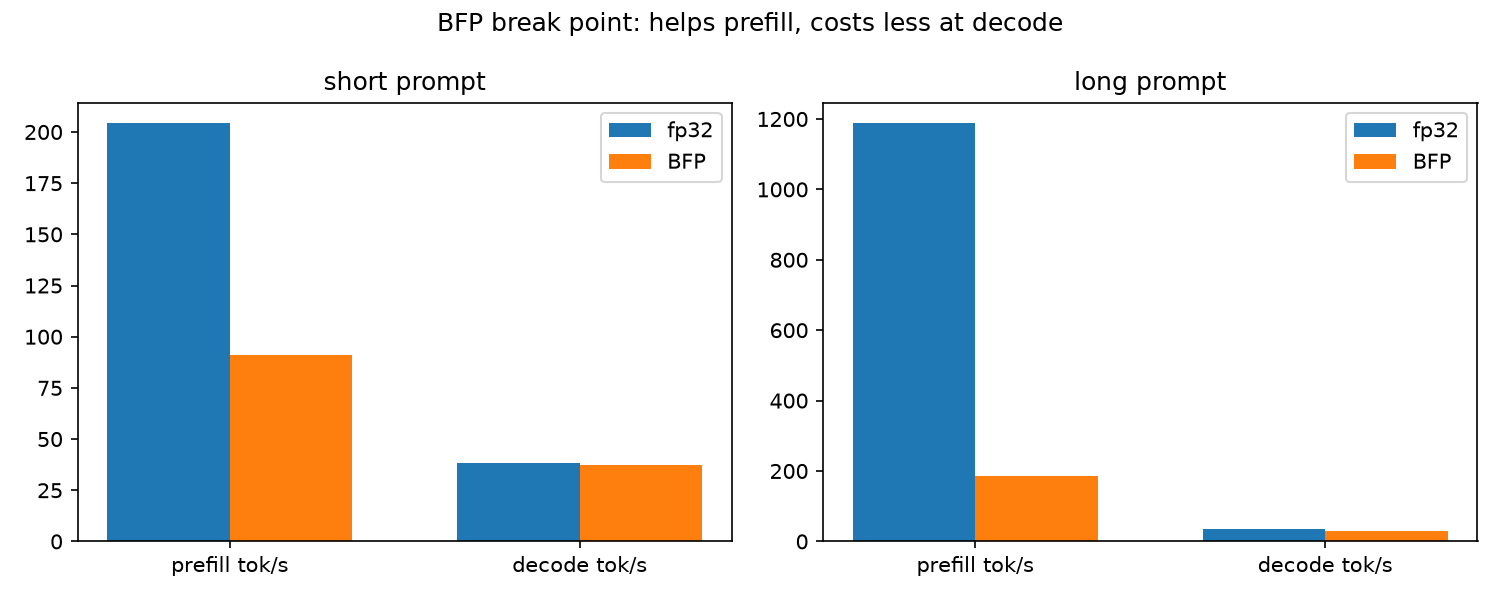
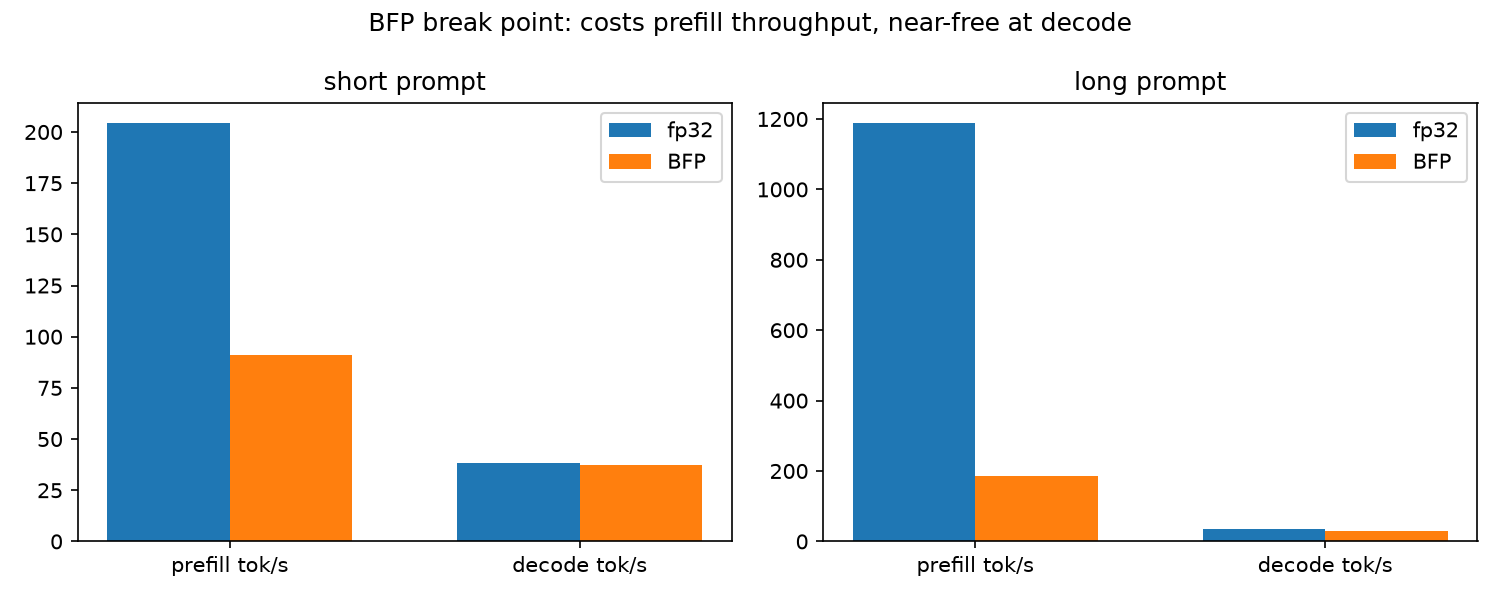
fix: address final-review findings — thread pinning, replay cache hits, chart title, README refresh
- Pin numba to DEFAULT_CONFIG.cpu_threads in stress_test.py and
  capture_replay_fixture.py, matching dashboard/app.py and
  run_bfp_benchmark.py. Both previously timed BFP under an unpinned
  12-thread numba while torch ran at 8.
- capture_replay_fixture.py: warm the cache with a discarded first
  generate() against the same PrefixKVCache before capturing, so the
  cache-on combos show real hits instead of an inevitable 0%. Add a
  top-level provenance() block, matching every other benchmarks/*.json.
- Re-ran both scripts: stress_test_results.json still 26 rows;
  replay.json still 12 entries, now with provenance and nonzero
  cache_detail on every cache-on entry.
- export_slide_charts.py: the BFP break-point chart title claimed BFP
  helps prefill. The data says the opposite; corrected and regenerated.
- README: refresh both 'Latest recorded numbers' blocks, the
  prefill/decode table, and the combined-pipeline numbers against the
  committed JSON; correct decode retention 83-85% -> 84-97% and prefill
  16-44% -> 16-45%; re-derive the stress-test ranges from the fresh
  JSON; bump the Limitations header to include Phase 5; note that the
  dashboard still does one live model load on first page render before
  the replay toggle can be flipped.

Changed region(s): [[0.2453, 0.0, 0.7667, 0.06]]

diff --git a/scripts/capture_replay_fixture.py b/scripts/capture_replay_fixture.py
@@ -3,10 +3,12 @@ import json
 import time
 from pathlib import Path
 
+import numba
 import torch
 
 from cachequant.bench.config import DEFAULT_CONFIG
 from cachequant.bench.harness import compute_bench_result
+from cachequant.bench.provenance import provenance
 from cachequant.dashboard.app import _cost_per_1k, _prefill_tokens_per_sec
 from cachequant.kernel.bfp_linear import apply_bfp_quantization
 from cachequant.kvcache.trie_cache import PrefixKVCache
@@ -57,7 +59,14 @@ def _generated_only(text: str, prompt: str, tokenizer) -> str:
 
 
 def main() -> None:
+    # Pin both thread pools before any timed run. torch and numba have
+    # independent thread pools; without this BFP's numba matmul runs on every
+    # logical core while fp32's torch path stays at cpu_threads, making the
+    # captured BFP-vs-fp32 numbers not apples-to-apples. Same convention as
+    # scripts/run_bfp_benchmark.py's main() and the dashboard's model loader.
     torch.set_num_threads(DEFAULT_CONFIG.cpu_threads)
+    numba.set_num_threads(DEFAULT_CONFIG.cpu_threads)
+
     fp32_model, tokenizer = load_model()
     bfp_model = apply_bfp_quantization(copy.deepcopy(fp32_model))
     generate(fp32_model, tokenizer, WARMUP_PROMPT, cache=None, max_new_tokens=WARMUP_MAX_NEW_TOKENS)
@@ -74,6 +83,14 @@ def main() -> None:
     for prompt_set_name, prompt in PROMPT_SETS.items():
         for combo_key, model, use_cache in combos:
             cache = PrefixKVCache(max_tokens=DEFAULT_CONFIG.max_cache_tokens) if use_cache else None
+            if use_cache:
+                # Warm the cache with a discarded first call against the SAME
+                # cache instance, then capture the second. A single call always
+                # reports a 0% hit rate (nothing was inserted before it), which
+                # would show the project's headline KV-cache result as pure
+                # overhead in offline replay. The captured second call is what a
+                # real second click in the live dashboard does.
+                generate(model, tokenizer, prompt, cache=cache, max_new_tokens=MAX_NEW_TOKENS)
             t0 = time.perf_counter()
             text, timing, stats = generate(model, tokenizer, prompt, cache=cache, max_new_tokens=MAX_NEW_TOKENS)
             wall_seconds = time.perf_counter() - t0
@@ -102,7 +119,7 @@ def main() -> None:
 
     FIXTURES_DIR.mkdir(parents=True, exist_ok=True)
     output_path = FIXTURES_DIR / "replay.json"
-    output_path.write_text(json.dumps({"entries": entries}, indent=2))
+    output_path.write_text(json.dumps({"provenance": provenance(), "entries": entries}, indent=2))
     print(f"wrote {output_path}")
 
 

diff --git a/scripts/stress_test.py b/scripts/stress_test.py
@@ -3,6 +3,7 @@ import json
 import time
 from pathlib import Path
 
+import numba
 import torch
 
 from cachequant.bench.config import DEFAULT_CONFIG
@@ -56,7 +57,14 @@ def _run_case(model, tokenizer, prompt: str, max_new_tokens: int, cache) -> tupl
 
 
 def main() -> None:
+    # Pin both thread pools before any timed run. torch and numba have
+    # independent thread pools; without this BFP's numba matmul runs on every
+    # logical core while fp32's torch path stays at cpu_threads, making the
+    # recorded BFP-vs-fp32 wall times not apples-to-apples. Same convention as
+    # scripts/run_bfp_benchmark.py's main() and the dashboard's model loader.
     torch.set_num_threads(DEFAULT_CONFIG.cpu_threads)
+    numba.set_num_threads(DEFAULT_CONFIG.cpu_threads)
+
     fp32_model, tokenizer = load_model()
     bfp_model = apply_bfp_quantization(copy.deepcopy(fp32_model))
     generate(fp32_model, tokenizer, WARMUP_PROMPT, cache=None, max_new_tokens=WARMUP_MAX_NEW_TOKENS)

diff --git a/scripts/export_slide_charts.py b/scripts/export_slide_charts.py
@@ -55,7 +55,7 @@ def _chart_bfp_breakpoint() -> None:
         ax.set_xticklabels(["prefill tok/s", "decode tok/s"])
         ax.set_title(label)
         ax.legend()
-    fig.suptitle("BFP break point: helps prefill, costs less at decode")
+    fig.suptitle("BFP break point: costs prefill throughput, near-free at decode")
     fig.tight_layout()
     fig.savefig(CHARTS_DIR / "bfp_breakpoint.png", dpi=150)
     plt.close(fig)

diff --git a/README.md b/README.md
@@ -24,7 +24,7 @@ output-feature axis (which also puts both paths on the same thread count for the
 first time), the per-block scale is hoisted out of the inner loop, and the bias
 is fused into the kernel's output store to avoid a torch op whose OpenMP threads
 were contending with Numba's. That moved the short-prompt profile from ~38x more
-expensive than fp32 to ~1.2x, and reversed the direction of the documented break
+expensive than fp32 to ~1.07x, and reversed the direction of the documented break
 point — see below.
 
 Phase 3 adds cross-request KV-cache prefix reuse (`cachequant/kvcache/`): a
@@ -74,9 +74,9 @@ Runs GPT-2 on CPU on two prompt profiles — a short decode-heavy prompt and a l
 
 Latest recorded numbers (short prompt, 50 generated tokens; measured on this repo's dev machine — see the `provenance` field in the JSON for the actual CPU, priced at the documented AWS `c7i.2xlarge` on-demand rate in `cachequant/bench/config.py`, not run on that instance):
 
-- Prefill: ~216 tokens/sec
-- Decode: ~41 tokens/sec
-- Cost: ~$0.0024 / 1K generated tokens
+- Prefill: ~204 tokens/sec
+- Decode: ~38 tokens/sec
+- Cost: ~$0.0026 / 1K generated tokens
 
 ### Quantized kernel (BFP)
 
@@ -99,14 +99,14 @@ after the kernel optimization pass:
 
 | | prefill tok/s | decode tok/s | cost / 1K tokens |
 |---|---:|---:|---:|
-| short prompt, fp32 baseline | 216.2 | 40.8 | $0.00245 |
-| short prompt, BFP | 94.7 (43.8%) | 34.6 (84.9%) | $0.00295 (1.21x) |
-| long prompt, fp32 baseline | 1203.4 | 36.3 | $0.00469 |
-| long prompt, BFP | 188.0 (15.6%) | 30.0 (82.7%) | $0.01721 (3.67x) |
+| short prompt, fp32 baseline | 204.2 | 38.2 | $0.00262 |
+| short prompt, BFP | 91.2 (44.7%) | 37.1 (97.3%) | $0.00280 (1.07x) |
+| long prompt, fp32 baseline | 1187.5 | 35.0 | $0.00479 |
+| long prompt, BFP | 185.2 (15.6%) | 29.4 (83.8%) | $0.01750 (3.65x) |
 
 **Documented break point** — and it runs opposite to the design spec's
-prediction. Decode retains 83-85% of fp32 throughput while prefill retains only
-16-44%, because the two phases are limited by different resources: decode (M=1)
+prediction. Decode retains 84-97% of fp32 throughput while prefill retains only
+16-45%, because the two phases are limited by different resources: decode (M=1)
 is memory-bandwidth-bound, where reading int8 mantissas instead of fp32 weights
 is roughly a 4x reduction in bytes moved, and that nearly offsets the kernel's
 arithmetic disadvantage. Prefill (M=long) reuses each weight across every token,
@@ -154,17 +154,17 @@ Latest recorded numbers (median of 5 reps, `total_honest_prefill_seconds`
 summed across each 5-prompt set — includes `cache.lookup()`/`cache.insert()`
 overhead for the cache-on combos, not just the internal forward-pass timing;
 see Limitations below) show caching does not rescue BFP's prefill slowdown:
-`bfp_cache` never beats `fp32_cache`, losing by 2.44x on `high_reuse` (0.472s
-vs 0.194s), 3.84x on `long_high_reuse` (1.696s vs 0.442s), and 2.07x on
-`no_reuse` (0.383s vs 0.185s), even though hit rates are identical between
+`bfp_cache` never beats `fp32_cache`, losing by 2.58x on `high_reuse` (0.543s
+vs 0.210s), 4.02x on `long_high_reuse` (1.984s vs 0.494s), and 2.42x on
+`no_reuse` (0.465s vs 0.192s), even though hit rates are identical between
 the two (0.565 / 0.777 / 0.022) — confirming cache behavior is
 quantization-independent. But `fp32_cache` is not the fastest combination
 overall in every scenario: it only beats the uncached `fp32_no_cache`
 baseline on `long_high_reuse`, where there's real prefix overlap to exploit
-(0.442s vs 1.074s, a 2.43x win). On `high_reuse` and `no_reuse`, the honest
+(0.494s vs 1.100s, a 2.23x win). On `high_reuse` and `no_reuse`, the honest
 lookup/insert overhead outweighs what little prefill it saves, so plain
-`fp32_no_cache` is actually fastest overall (0.186s vs 0.194s on
-`high_reuse`; 0.161s vs 0.185s on `no_reuse`) — consistent with the ~9%
+`fp32_no_cache` is actually fastest overall (0.206s vs 0.210s on
+`high_reuse`; 0.173s vs 0.192s on `no_reuse`) — consistent with the ~9%
 no-reuse cache tax documented in Limitations below. BFP's kernel-quality gap
 (documented above) is larger than what a cache hit can claw back regardless.
 
@@ -226,7 +226,11 @@ streamlit run cachequant/dashboard/app.py --server.address 127.0.0.1
 ```
 
 Toggle **Replay (offline)** in the sidebar before clicking Generate. This
-path never loads a model or calls the real pipeline — it streams
+path never loads a model or calls the real pipeline — though opening the
+dashboard still triggers one live model load on the very first page render,
+before you can touch the toggle (Streamlit widgets start at their declared
+default on the first run), and flipping it only skips model loading and live
+compute from that point forward. It streams
 pre-captured runs from `cachequant/dashboard/fixtures/replay.json`, so it
 cannot fail for any of the reasons the live path can (model download, JIT
 compile stall, slow CPU). This is the fallback for a live demo failure, not
@@ -242,7 +246,7 @@ Runs pathological inputs across all four toggle combos and writes
 `benchmarks/stress_test_results.json`. Findings are documented, not fixed
 — see Break points below.
 
-## Limitations (Phase 1 + 2 + 3 + 4a + 4b)
+## Limitations (Phase 1 + 2 + 3 + 4a + 4b + 5)
 
 - CPU only, batch size 1 (enforced by an assertion in `generate_with_timing`) — no GPU path, no batching.
 - The BFP kernel is inference-only (no autograd/backward pass) and requires the
@@ -255,7 +259,7 @@ Runs pathological inputs across all four toggle combos and writes
   so it is CPU-only by design and does not follow `.to(device)`. Consistent with
   the project's no-GPU-path non-goal, but it is not a general-purpose module.
 - BFP decode throughput is noticeably more sensitive to scheduling noise than the
-  fp32 baseline (31.3-40.0 vs 40.7-40.9 tok/s across 5 reps); N=5 is thin for a
+  fp32 baseline (33.2-39.7 vs 37.3-39.3 tok/s across 5 reps); N=5 is thin for a
   spread that wide.
 - The prefix cache's eviction scan (`PrefixKVCache._lru_leaf`) walks the
   entire trie on every evicted node — an O(n) scan acceptable at this
@@ -298,8 +302,8 @@ toggle combos and recording what actually happens
 (`benchmarks/stress_test_results.json`, 26 runs, this repo's dev machine).
 
 - **Quantization**: the BFP kernel costs prefill throughput far more than
-  decode — compute-bound prefill retains only 16-44% of fp32 speed, while
-  memory-bandwidth-bound decode retains 83-85% — see the BFP numbers above.
+  decode — compute-bound prefill retains only 16-45% of fp32 speed, while
+  memory-bandwidth-bound decode retains 84-97% — see the BFP numbers above.
 - **Caching**: prefix-only — the final prompt token is always a fresh
   forward pass, capping hit rate at `(N-1)/N` — and costs ~9% throughput on
   a no-reuse workload — see the KV-cache numbers above.
@@ -308,23 +312,23 @@ toggle combos and recording what actually happens
   [-1, 0] because the unspecified dimension size -1 can be any value and is
   ambiguous`.
 - **Whitespace-only prompts** (`whitespace_prompt`, 3 tokens after
-  tokenization): succeeds on all 4 combos (~0.26-0.28s for 10 requested
+  tokenization): succeeds on all 4 combos (~0.25-0.30s for 10 requested
   tokens) — whitespace is not rejected as empty.
 - **Prompts at/past GPT-2's 1024-token context limit** (`at_context_prompt`
   = 1024 tokens exactly, `over_context_prompt` = 1100 tokens): both fail on
   all 4 combos with the same `IndexError: index out of range in self`, but
   not at the same cost — the 1100-token case fails near-instantly
-  (~0.003-0.004s, every combo), while the 1024-token case only fails after
+  (~0.002-0.004s, every combo), while the 1024-token case only fails after
   a full prefill's worth of compute, and that prefill is markedly more
-  expensive under BFP (~4.1-4.4s) than fp32 (~0.9-0.93s).
+  expensive under BFP (~5.0s) than fp32 (~0.87-0.91s).
 - **`max_new_tokens=0`** (`zero_max_new_tokens`): succeeds on all 4 combos
-  (~0.03-0.09s) — consistent with the Limitations note above that this
+  (~0.03-0.06s) — consistent with the Limitations note above that this
   input isn't validated.
 - **`max_new_tokens=200`** (`large_max_new_tokens`): succeeds on all 4
-  combos (~5.8-7.1s).
+  combos (~5.3-5.6s).
 - **Cache-eviction pressure** (`cache_eviction_pressure`, only meaningful
-  on the two cache-on combos): succeeds on both — `fp32_cache` in ~3.2s,
-  `bfp_cache` in ~8.6s. Eviction under pressure doesn't crash; it's just
+  on the two cache-on combos): succeeds on both — `fp32_cache` in ~3.0s,
+  `bfp_cache` in ~8.4s. Eviction under pressure doesn't crash; it's just
   slower under BFP, consistent with the quantization break point above.
 
 ## Docs
